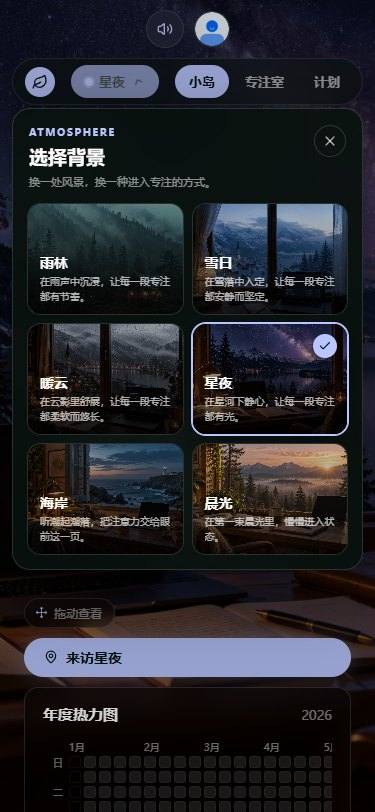
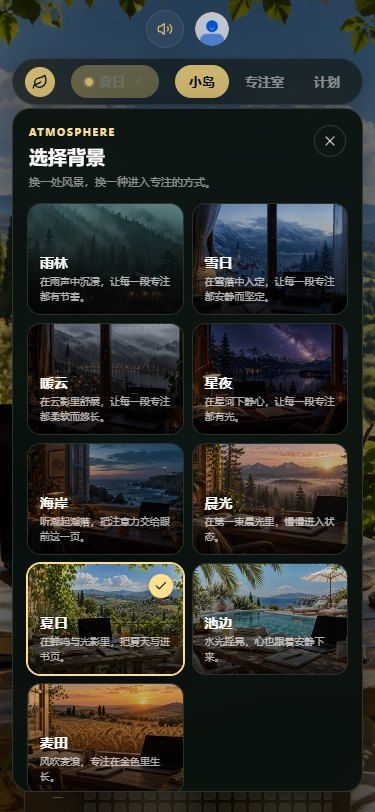
功能：新增夏日、池边与麦田等九套背景
背景总数扩展到九套，新增夏日乡村阳台、池边、麦田；
选择器使用缩略图并保持九项网格；更新界面截图与 README。

diff --git a/src/views/studyRoom/study-room-scene.ts b/src/views/studyRoom/study-room-scene.ts
@@ -9,7 +9,10 @@ export type StudyRoomScene =
   | 'cloud'
   | 'starry'
   | 'coast'
-  | 'dawn';
+  | 'dawn'
+  | 'summer'
+  | 'pool'
+  | 'wheat';
 
 export type SceneAmbientPreset = 'rain' | 'snow' | 'cloud';
 export type SceneIslandPalette = 'rain' | 'snow' | 'cloud';
@@ -108,6 +111,48 @@ export const STUDY_ROOM_SCENES: Record<StudyRoomScene, StudyRoomSceneCopy> = {
       '晨光不急，它知道你会来。',
       '新的一天，从一个安静的早晨开始。',
       '把第一束光，留给最重要的事。',
+    ],
+    islandScene: 'cloud',
+    ambientPreset: 'cloud',
+  },
+  summer: {
+    labelShort: '夏日',
+    labelLong: '夏日',
+    roomTitle: '夏日自习室',
+    roomSlogan: '在蝉鸣与光影里，把夏天写进书页。',
+    primary: '#ffe08a',
+    quotes: [
+      '蝉鸣把夏天拉长，书页把时间留住。',
+      '阳光落在桌上，正好照亮下一行。',
+      '夏天适合慢一点，也适合再坚持一会儿。',
+    ],
+    islandScene: 'rain',
+    ambientPreset: 'cloud',
+  },
+  pool: {
+    labelShort: '池边',
+    labelLong: '池边',
+    roomTitle: '池边自习室',
+    roomSlogan: '水光摇晃，心也跟着安静下来。',
+    primary: '#7fe7e0',
+    quotes: [
+      '水面有波纹，心可以很平。',
+      '让波浪负责流动，你负责专注。',
+      '池边的风，会把杂念吹远。',
+    ],
+    islandScene: 'rain',
+    ambientPreset: 'cloud',
+  },
+  wheat: {
+    labelShort: '麦田',
+    labelLong: '麦田',
+    roomTitle: '麦田自习室',
+    roomSlogan: '风吹麦浪，专注在金色里生长。',
+    primary: '#f2c66d',
+    quotes: [
+      '风吹麦浪，时间在金色里变慢。',
+      '每一页书，都在为秋天积蓄。',
+      '在麦田边，把今天认真收好。',
     ],
     islandScene: 'cloud',
     ambientPreset: 'cloud',

diff --git a/src/views/studyRoom/__tests__/study-room-utils.test.ts b/src/views/studyRoom/__tests__/study-room-utils.test.ts
@@ -32,8 +32,18 @@ describe('study room date helpers', () => {
     expect(asStudyRoomScene('snow')).toBe('snow');
   });
 
-  it('supports all six scene backgrounds', () => {
-    for (const scene of ['rain', 'snow', 'cloud', 'starry', 'coast', 'dawn']) {
+  it('supports all nine scene backgrounds', () => {
+    for (const scene of [
+      'rain',
+      'snow',
+      'cloud',
+      'starry',
+      'coast',
+      'dawn',
+      'summer',
+      'pool',
+      'wheat',
+    ]) {
       expect(asStudyRoomScene(scene)).toBe(scene);
     }
   });

diff --git a/src/views/studyRoom/RoomTopBar.vue b/src/views/studyRoom/RoomTopBar.vue
@@ -243,7 +243,7 @@ onBeforeUnmount(() => {
           <span
             class="scene-card-image"
             :style="{
-              backgroundImage: `url('/images/study-room/${option.value}.webp')`,
+              backgroundImage: `url('/images/study-room/thumbs/${option.value}.webp')`,
             }"
           />
           <span class="scene-card-shade" />

diff --git a/README.md b/README.md
@@ -1,6 +1,6 @@
 # 清砚自习室
 
-一个面向学习者的沉浸式自习空间。它把 3D 小岛打卡、番茄专注、学习计划、阅读笔记和主页统计放进同一个界面，用雨林、雪日、暖云三种场景帮助用户进入专注状态。
+一个面向学习者的沉浸式自习空间。它把 3D 小岛打卡、番茄专注、学习计划、阅读笔记和主页统计放进同一个界面，用雨林、雪日、星夜、海岸、麦田等自然场景帮助用户进入专注状态。
 
 **在线体验：** https://qingyan-study-room-j8vzdjdlheu.qoder.website
 
@@ -13,13 +13,18 @@
 - **学习计划**：把长期目标拆成任务，记录完成状态和整体进度。
 - **阅读笔记**：新建、编辑和保存文档，集中管理学习记录。
 - **主页统计**：加入天数、连续活跃、打卡总数、年度进度和最近 7 天专注轨迹。
-- **场景切换**：雨林、雪日、暖云、星夜、海岸、晨光六套背景与主色。
+- **场景切换**：雨林、雪日、暖云、星夜、海岸、晨光、夏日乡村阳台、池边、麦田九套背景与主色。
 - **数据备份**：数据默认保存在浏览器 localStorage，主页支持导出 / 导入 JSON。
 
 ## 背景
 
-六套可切换背景：雨林、雪日、暖云、星夜、海岸、晨光。点击顶部场景按钮打开背景选择器，选择会保存在本机。
+九套可切换背景：雨林、雪日、暖云、星夜、海岸、晨光、夏日乡村阳台、池边、麦田。点击顶部场景按钮打开背景选择器，选择会保存在本机。
 
+<p align="center">
+  <img src="docs/screenshots/summer.jpg" width="32%" alt="夏日乡村阳台" />
+  <img src="docs/screenshots/pool.jpg" width="32%" alt="池边" />
+  <img src="docs/screenshots/wheat.jpg" width="32%" alt="麦田" />
+</p>
 <p align="center">
   <img src="docs/screenshots/scenes.jpg" width="70%" alt="背景选择器" />
   <img src="docs/screenshots/scenes-mobile.jpg" width="24%" alt="移动端背景选择" />
